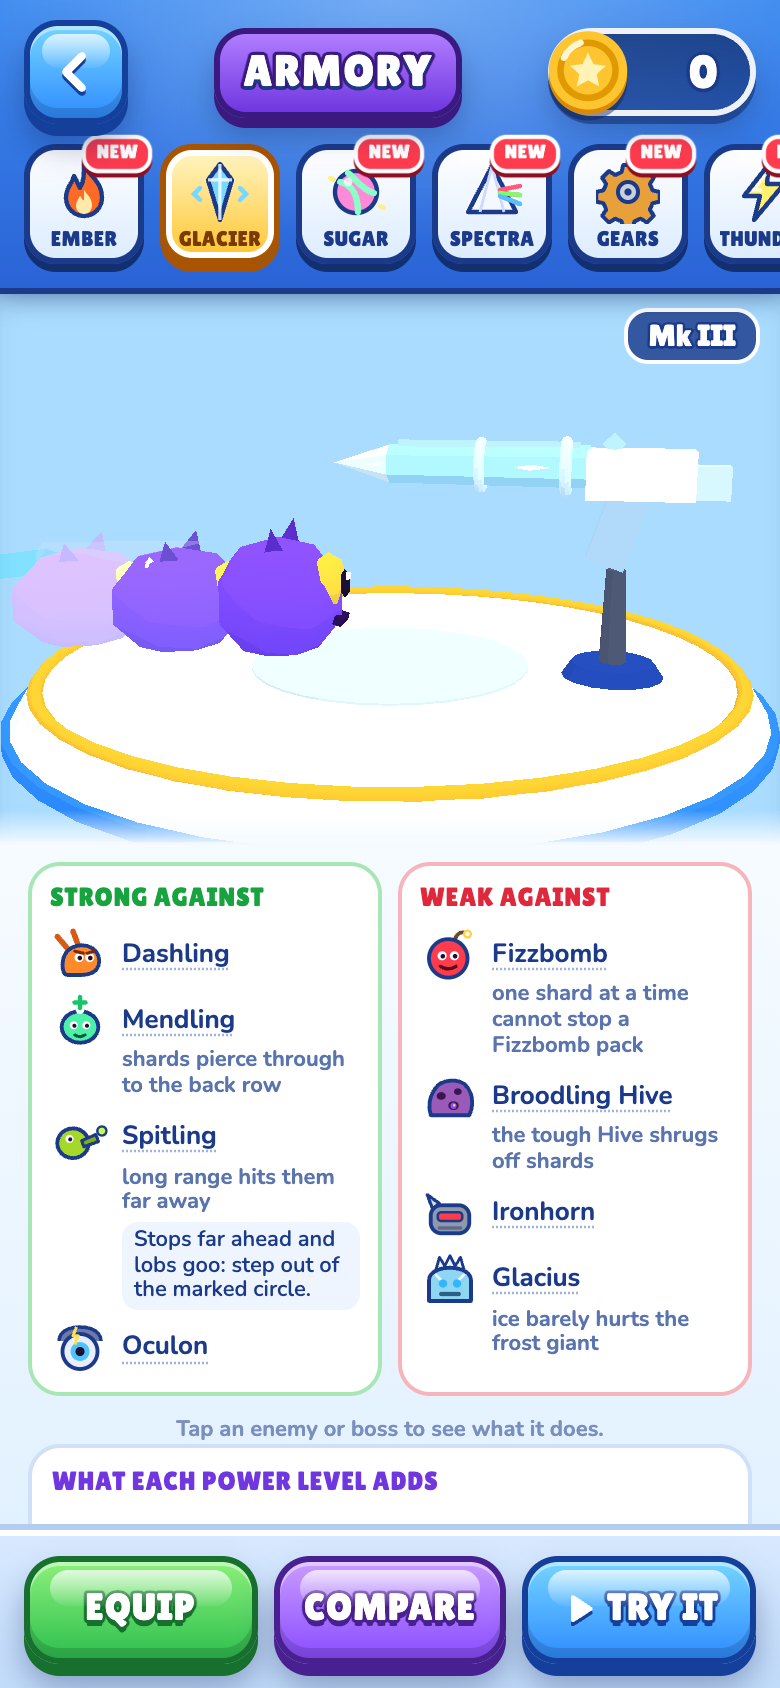
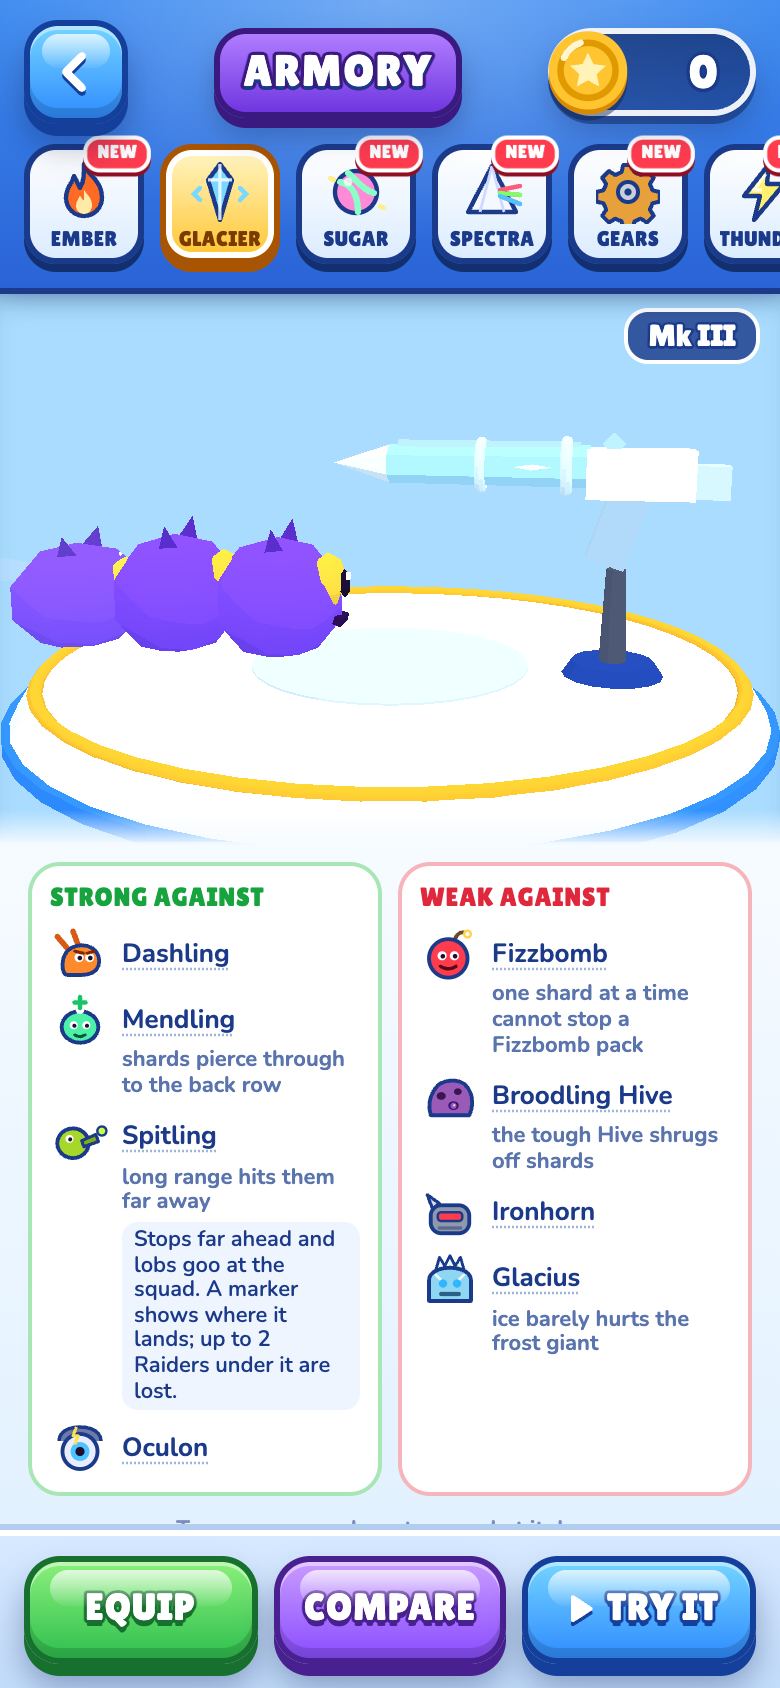
Stage 6 review fixes: HUD overlaps, map Pip on boss nodes, old-tab save backup, armory picture
- Formation button sits 14 px higher so its LINE / WEDGE / CIRCLE pill no longer covers the ability READY chip
- MOVE TO THE SAFE SPOT! banner stays between the side button columns (wraps to two lines on a phone) instead of
  covering the formation button
- World map: TOPGAP 104 -> 150 so Pip on a boss node (L10/20/30/40/50) is no longer clipped by its world band
- Progress backup key also keeps achievement counters and today's Daily pin; a load merges them back (counters:
  the higher, pin: the later day), so an update 3 stage 1-4 tab no longer resets achievement progress
- docs/armory.png retaken: the Spitling chip shows the current enemyinfo.js line

diff --git a/src/save/save.js b/src/save/save.js
@@ -9,7 +9,8 @@
 // (stars[15], unlockedLevel 15) moves on to 16, plus elite stars, mode bests, achievements, squad types and the
 // new settings (volumes, ability side, colorblind, haptics = the old vibration switch). Every v2 field is copied
 // exactly. Old-tab protection for progress: PROGRESS_KEY keeps unlockedLevel + stars + elite (an old build clamps
-// them to 15 levels and never touches this key); a load takes the higher of both.
+// them to 15 levels and never touches this key); a load takes the higher of both. Since stage 6 it also keeps the
+// achievement counters and today's Daily pin (an update 3 stage 1-4 tab drops both).
 import { UPGRADES } from '../data/shop.js';
 import { FREE_SKIN_IDS, HERO_BY_ID, WEAPON_SKIN_BY_ID } from '../data/skins.js';
 import { HERO_IDS, DEFAULT_HERO } from '../data/heroes.js';
@@ -76,6 +77,22 @@ function starMap(raw, into) {
   return into;
 }
 
+/** Achievement counters (tracker key -> number, game/achievements.js: every one only grows); merges the higher value. */
+function countMap(raw, into) {
+  if (!isObj(raw)) return into;
+  for (const [k, v] of Object.entries(raw)) {
+    if (!SAFE_ID.test(k) || (!(k in into) && Object.keys(into).length >= ID_LIST)) continue;
+    const n = int(v, 0, 1e12, 0); if (n > (into[k] || 0)) into[k] = n;
+  }
+  return into;
+}
+/** Today's pinned Daily level { date, levelId } or null. */
+function dailyPin(v) {
+  if (!isObj(v) || typeof v.date !== 'string' || !/^\d{4}-\d{2}-\d{2}$/.test(v.date)) return null;
+  const lv = key(v.levelId, 1, LEVELS);
+  return lv ? { date: v.date, levelId: lv } : null;
+}
+
 /** Merge untrusted stored JSON onto the defaults, clamping every field (also the migration hook). */
 export function sanitize(raw) {
   const d = defaultSave();
@@ -125,21 +142,14 @@ export function sanitize(raw) {
     for (const k of days) { const v = int(md.dailyBest[k], 0, 1e9, 0); if (v) d.modes.dailyBest[k] = v; }
   }
   // stage 5: today's Daily level, kept for the rest of that day (game/modes/daily.js pinDaily); absent by default
-  if (isObj(md.dailyPin) && typeof md.dailyPin.date === 'string' && /^\d{4}-\d{2}-\d{2}$/.test(md.dailyPin.date)) {
-    const lv = key(md.dailyPin.levelId, 1, LEVELS);
-    if (lv) d.modes.dailyPin = { date: md.dailyPin.date, levelId: lv };
-  }
+  const pin = dailyPin(md.dailyPin);
+  if (pin) d.modes.dailyPin = pin;
   if (isObj(md.endlessBest)) {
     for (const [k, v] of Object.entries(md.endlessBest)) { const w = key(k, 1, WORLDS), m = int(v, 0, 1e9, 0); if (w && m) d.modes.endlessBest[w] = m; }
   }
   strIds(raw.achievements?.done, d.achievements.done);
   strIds(raw.achievements?.claimed, d.achievements.claimed);
-  if (isObj(raw.achievements?.counts)) {
-    for (const [k, v] of Object.entries(raw.achievements.counts)) {
-      if (Object.keys(d.achievements.counts).length >= ID_LIST || !SAFE_ID.test(k)) continue;
-      const n = int(v, 0, 1e12, 0); if (n) d.achievements.counts[k] = n;
-    }
-  }
+  countMap(raw.achievements?.counts, d.achievements.counts);
   // raider types are bought with coins and have no backup key: an id a newer build added is kept (safe ids only;
   // the game only reads the ids it knows, data/squadtypes.js typeShare), so an older cached tab never deletes it
   strIds(raw.squadTypes?.owned, d.squadTypes.owned, TYPE_MAX);
@@ -177,6 +187,11 @@ export function mergeProgress(d, backup) {
   if (lvl > d.unlockedLevel) d.unlockedLevel = lvl;
   starMap(backup.stars, d.stars);
   starMap(backup.elite, d.elite);
+  // stage 6 review: an update 3 stage 1-4 tab knows achievements as { done, claimed } and no Daily pin, so its
+  // write drops the counters and the pin; they come back from here (counters: the higher; pin: the later day)
+  countMap(backup.counts, d.achievements.counts);
+  const pin = dailyPin(backup.dailyPin);
+  if (pin && (!d.modes.dailyPin || pin.date > d.modes.dailyPin.date)) d.modes.dailyPin = pin;
   return d;
 }
 
@@ -227,7 +242,7 @@ export class Save {
     const owned = JSON.stringify({ heroes: this.data.heroes.owned, arsenal: this.data.arsenal.owned });
     this.memoryOwned = owned;
     const d = this.data;
-    const progress = JSON.stringify({ unlockedLevel: d.unlockedLevel, stars: d.stars, elite: d.elite });
+    const progress = JSON.stringify({ unlockedLevel: d.unlockedLevel, stars: d.stars, elite: d.elite, counts: d.achievements.counts, dailyPin: d.modes.dailyPin });
     this.memoryProgress = progress;
     if (!this.persistent) return;
     try {

diff --git a/src/ui/hudboss.css b/src/ui/hudboss.css
@@ -23,6 +23,11 @@
   border: 3px solid #fff; box-shadow: 0 4px 0 #0b5a32, 0 0 24px rgba(61, 255, 138, 0.8);
   -webkit-text-stroke: 4px #0b5a32; paint-order: stroke fill; animation: safe-pulse 0.5s ease-in-out infinite alternate;
 }
+/* stage 6 review: the banner stays between the side button columns (formation / ability buttons: 74 px from each
+   edge) and wraps onto two lines on a phone instead of covering the formation button */
+.safe-call { width: max-content; max-width: calc(100% - 2 * (var(--safe-r, 0px) + 86px)); box-sizing: border-box; white-space: normal; text-align: center; line-height: 1.05; }
+.safe-call > span:not(.sc-dot) { flex: 1 1 auto; }
+.safe-call .sc-dot { flex: 0 0 auto; }
 .safe-call .sc-dot { width: 12px; height: 12px; border-radius: 50%; background: #eafff2; box-shadow: 0 0 10px #3dff8a; }
 @keyframes safe-pulse { from { transform: translateX(-50%) scale(1); } to { transform: translateX(-50%) scale(1.07); } }
 .boss-marks { position: absolute; inset: 0; pointer-events: none; }

diff --git a/src/ui/hudcontrols.css b/src/ui/hudcontrols.css
@@ -40,7 +40,9 @@
   position: absolute; padding: 0; border: 0; background: none; color: #fff; cursor: pointer; pointer-events: auto;
   touch-action: none; -webkit-tap-highlight-color: transparent; user-select: none; font: 400 12px/1 'Lilita One', sans-serif;
 }
-.form-btn { --fc: #59c1ff; right: calc(var(--safe-r) + 18px); bottom: calc(var(--safe-b) + 98px); width: 56px; height: 72px; }
+.form-btn { --fc: #59c1ff; right: calc(var(--safe-r) + 18px); bottom: calc(var(--safe-b) + 112px); width: 56px; height: 72px; }
+/* stage 6 review: bottom +112 (was +98) so the LINE / WEDGE / CIRCLE pill clears the ability button's READY chip
+   (ability top edge ~ safe-b + 82, chip 20-24 px above it) */
 .form-btn[data-mode="wedge"] { --fc: #ff8a3d; }
 .form-btn[data-mode="circle"] { --fc: #7dffa8; }
 .form-btn .fm-face {

diff --git a/tests/u2/foundation-save.js b/tests/u2/foundation-save.js
@@ -54,7 +54,7 @@ s = fresh();
 eq(s.data.arsenal.owned.includes('spectra'), false, 'spectra gone after reset');
 eq(JSON.parse(localStorage.getItem(OWNED_KEY)), { heroes: ['pip'], arsenal: ['thunderclap'] }, 'backup holds only defaults');
 same(s.data.settings, v1.settings, 'settings kept by reset');
-eq(JSON.parse(localStorage.getItem(PROGRESS_KEY)), { unlockedLevel: 1, stars: {}, elite: {} }, 'progress backup reset');
+eq(JSON.parse(localStorage.getItem(PROGRESS_KEY)), { unlockedLevel: 1, stars: {}, elite: {}, counts: {} }, 'progress backup reset');
 eq(s.data.coins, 0, 'coins reset');
 // ---- 4. unknown top-level keys survive a round trip ----
 localStorage.setItem(SAVE_KEY, JSON.stringify({ ...v1, futureX: { a: 1, b: [2, 3] } }));

diff --git a/src/ui/screens/map.js b/src/ui/screens/map.js
@@ -17,7 +17,8 @@ import '../worldmap.css';
 import { ELITE_BADGE, eliteStarsHtml } from '../elite.js';
 
 const STEP = 106;          // px between nodes inside a world
-const TOPGAP = 104;        // band top -> its boss node (room for the crown + Pip)
+const TOPGAP = 150;        // band top -> its boss node (room for the crown + Pip: the band clips, and a boss
+                           // node's Pip stands 86 px above it; stage 6 review: 104 cut Pip off on L10/20/.../50)
 const BOTGAP = 46;         // banner top -> the world's first node
 const BANNER = 176;        // the world title banner at the bottom (entrance) of each band
 const BAND_H = TOPGAP + STEP * (LEVELS_PER_WORLD - 1) + BOTGAP + BANNER;
